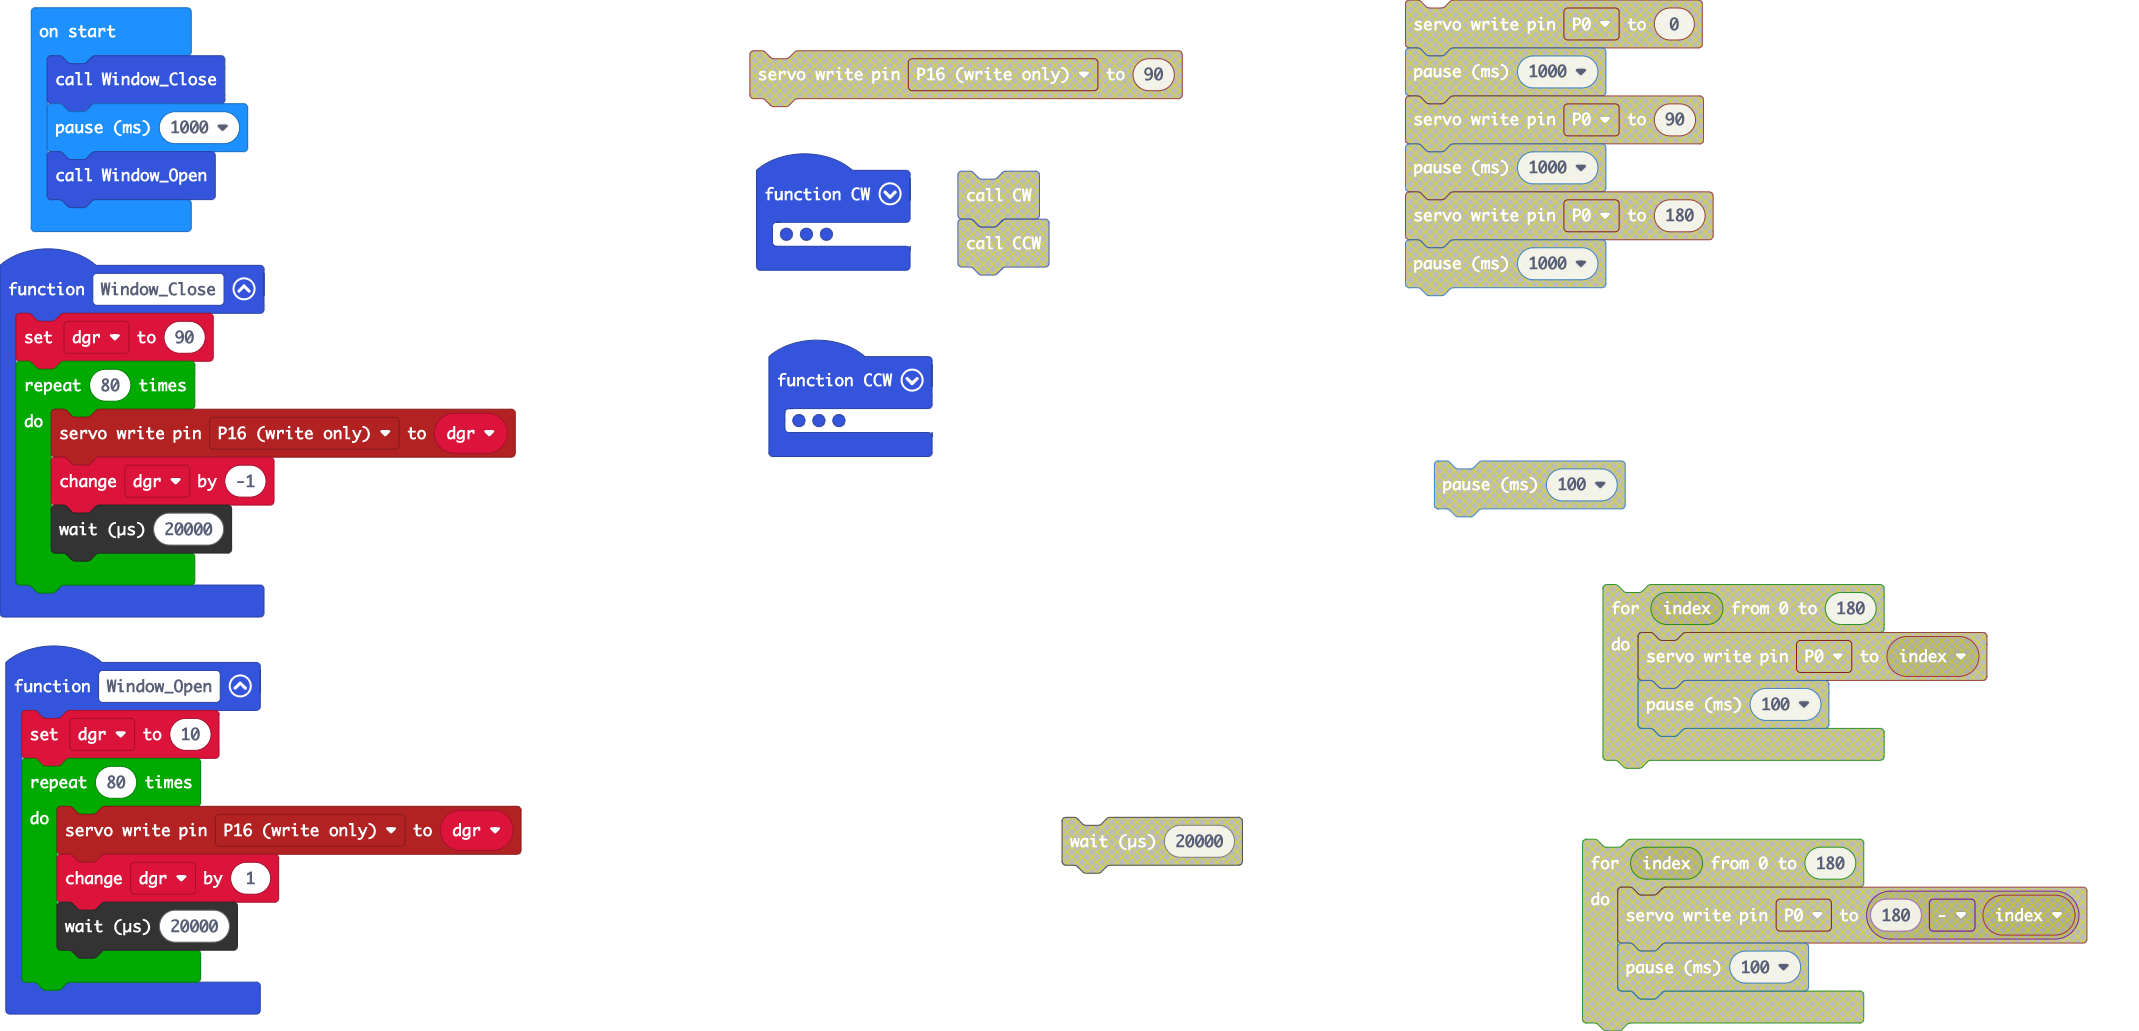
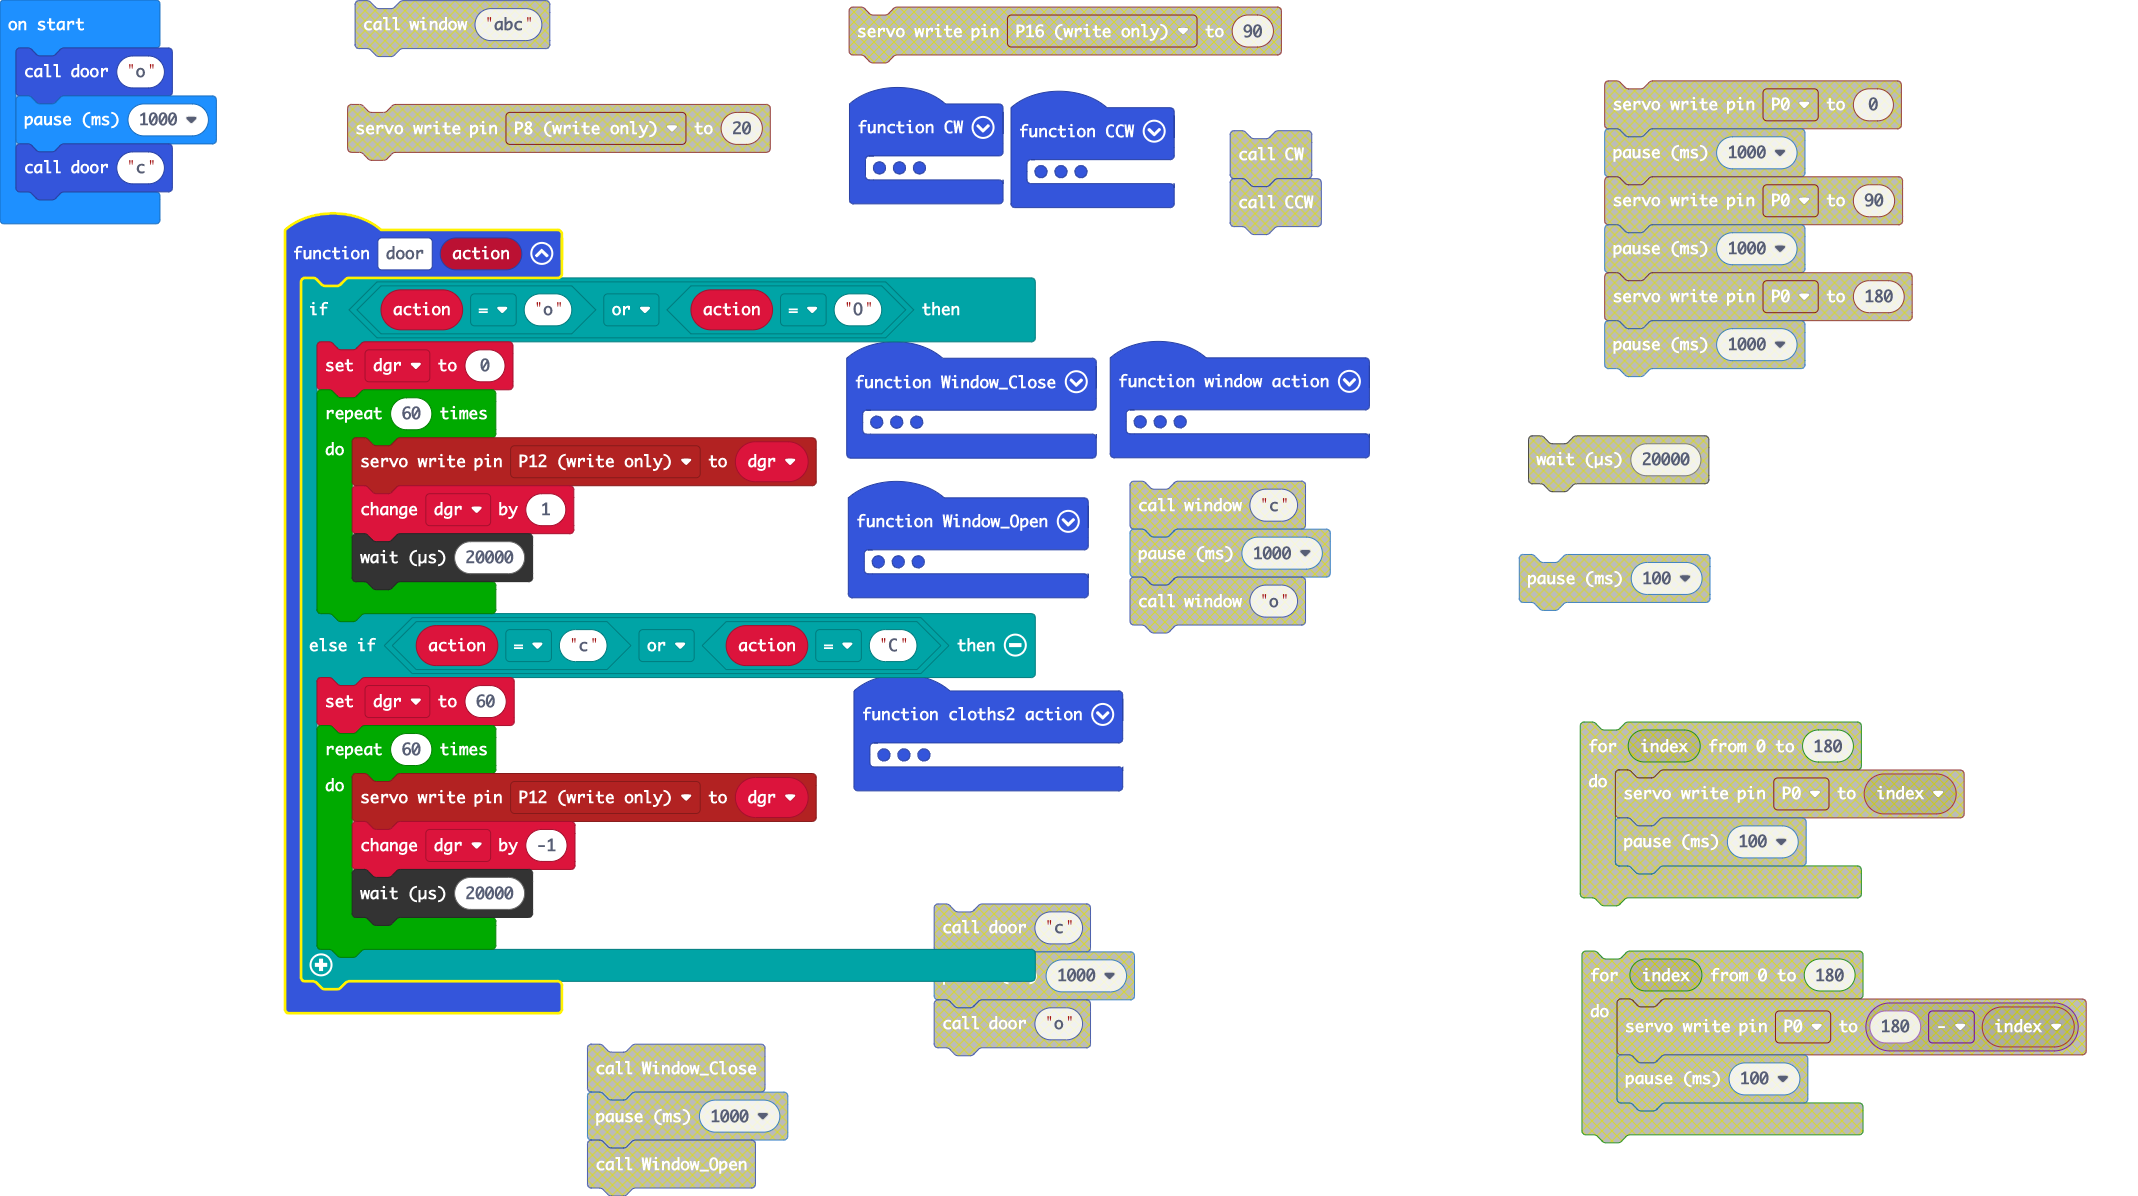
Update main.blocks, main.ts

diff --git a/main.ts b/main.ts
@@ -20,13 +20,64 @@ function Window_Open () {
         control.waitMicros(20000)
     }
 }
+function door (action: string) {
+    if (action == "o" || action == "O") {
+        dgr = 0
+        for (let index = 0; index < 60; index++) {
+            pins.servoWritePin(AnalogPin.P12, dgr)
+            dgr += 1
+            control.waitMicros(20000)
+        }
+    } else if (action == "c" || action == "C") {
+        dgr = 60
+        for (let index = 0; index < 60; index++) {
+            pins.servoWritePin(AnalogPin.P12, dgr)
+            dgr += -1
+            control.waitMicros(20000)
+        }
+    }
+}
+function window (action: string) {
+    if (action == "O" || action == "o") {
+        dgr = 10
+        for (let index = 0; index < 80; index++) {
+            pins.servoWritePin(AnalogPin.P16, dgr)
+            dgr += 1
+            control.waitMicros(20000)
+        }
+    } else if (action == "C" || action == "c") {
+        dgr = 90
+        for (let index = 0; index < 80; index++) {
+            pins.servoWritePin(AnalogPin.P16, dgr)
+            dgr += -1
+            control.waitMicros(20000)
+        }
+    }
+}
 function CCW () {
     for (let index = 0; index <= 180; index++) {
         pins.servoWritePin(AnalogPin.P16, 180 - index)
         control.waitMicros(20000)
     }
 }
+function cloths2 (action: string) {
+    if (action == "O" || action == "o") {
+        dgr = 120
+        for (let index = 0; index < 100; index++) {
+            pins.servoWritePin(AnalogPin.P8, dgr)
+            dgr += -1
+            control.waitMicros(20000)
+        }
+    } else if (action == "C" || action == "c") {
+        dgr = 20
+        for (let index = 0; index < 100; index++) {
+            pins.servoWritePin(AnalogPin.P8, dgr)
+            dgr += 1
+            control.waitMicros(20000)
+        }
+    }
+}
 let dgr = 0
-Window_Close()
+door("o")
 basic.pause(1000)
-Window_Open()
+door("c")
